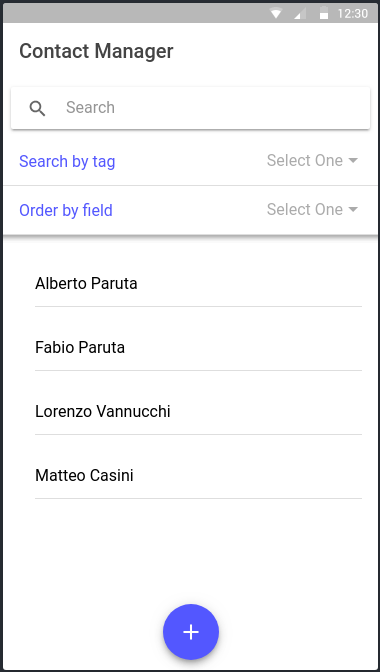
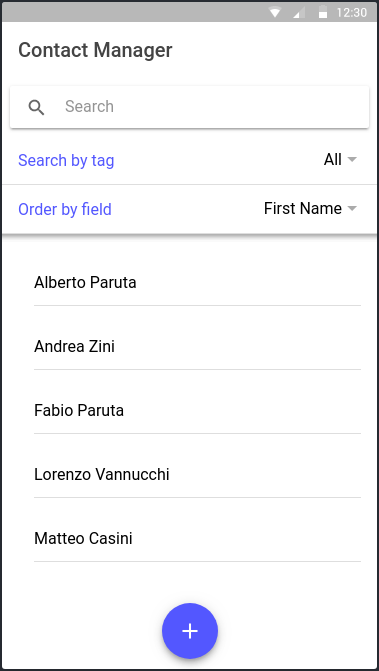
Fix search bug, update README

diff --git a/src/app/modify-contact/modify-contact.page.ts b/src/app/modify-contact/modify-contact.page.ts
@@ -32,12 +32,15 @@ export class ModifyContactPage implements OnInit {
     });
   }
 
+  /**
+   * Go back to contact view
+   */
   goContact() {
     this.navController.navigateBack('/contact/' + this.contactId);
   }
 
   /**
-   * Saves the changes
+   * Saves the changes made to the contact
    */
   saveContact() {
     if (this.firstName === '') {
@@ -56,9 +59,7 @@ export class ModifyContactPage implements OnInit {
       this.notes = this.contact.notes;
     }
     if (this.tag.length === 0) {
-      console.log('First tag', this.tag);
       this.tag = this.contact.tag;
-      console.log('Second tag', this.tag);
     }
     this.contactService.deleteContact(this.contactId).then(() => {
       const newContact = new Contact(this.firstName, this.lastName,

diff --git a/src/app/home/home.page.ts b/src/app/home/home.page.ts
@@ -13,8 +13,8 @@ export class HomePage implements OnInit {
 
   searchTerm = '';
   contacts: any = [];
-  orderValue = '';
-  tagValue: string;
+  orderValue = 'f';
+  tagValue = 'All';
 
   constructor(public alertController: AlertController,
               public contactService: ContactService,
@@ -28,10 +28,11 @@ export class HomePage implements OnInit {
    * Gets contacts filtered by the search term
    */
   setFilteredContacts() {
+    console.log('searching');
     this.contactService.filterContacts(this.searchTerm)
       .then((filteredContacts) => {
         this.contacts = filteredContacts;
-        this.orderContacts();
+        this.filterByTag();
       });
   }
 

diff --git a/src/app/models/contact.ts b/src/app/models/contact.ts
@@ -18,14 +18,4 @@ export class Contact {
     this.tag = tag;
   }
 
-  setFirstName(newFirstName: string) {
-    this.firstName = newFirstName;
-    this.completeName = newFirstName + ' ' + this.lastName;
-  }
-
-  setLastName(newLastName: string) {
-    this.lastName = newLastName;
-    this.completeName = this.firstName + ' ' + newLastName;
-  }
-
 }

diff --git a/README.md b/README.md
@@ -18,16 +18,17 @@ Fig. 3            |  Fig. 4
 :-------------------------:|:-------------------------:
 ![](https://github.com/NostosP/Contacts-Manager/blob/master/imgs/contactPage.png "Fig. 3")  |  ![](https://github.com/NostosP/Contacts-Manager/blob/master/imgs/modifyContact.png "Fig. 4")
 
-The Model View Controller (MVC) pattern is implemented. In the src/app folder there are the 4 folders (home, contact, new-contact and modify-contact) containing the 4 views and their respective controllers (in each folder views are NAME.page.html and NAME.page.scss, controllers are NAME.page.ts).
+The Model View Controller (MVC) pattern is implemented natively in Ionic. In the src/app folder there are the 4 folders (home, contact, new-contact and modify-contact) containing the 4 views and their respective controllers (in each folder the views are NAME.page.html and NAME.page.scss, the controllers are NAME.page.ts).
 
-The models folder contains the class contact.ts with wich a contact is modelled; the services folder contains the provider contact.service.ts which has the function of operating CRUD functions on the database, connecting the controllers and the database.
+The models folder contains the class contact.ts with which a contact is modelled; the services folder contains the service contact.service.ts which has the function of operating CRUD operations on the database and passing data to the controllers and viceversa.
 
 I used the Ionic module Storage as it provides an easy way to store key/value pairs and JSON objects. Storage uses a variety of storage engines underneath, picking the best one available depending on the platform: when running in a native app context, Storage will prioritize using SQLite, when running in the web or as a Progressive Web App, Storage will attempt to use IndexedDB, WebSQL, and localstorage, in that order.
 
 ---
 ## Requirements
 
-Node.js and npm are required to install Ionic 4.
+The latest versions of Node.js and npm are required to install Ionic 4. 
+To install Ionic use the command npm install -g ionic
 See https://ionicframework.com/docs/installation/cli for more info.
 
 ---
